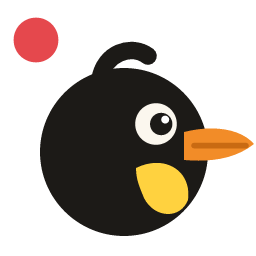
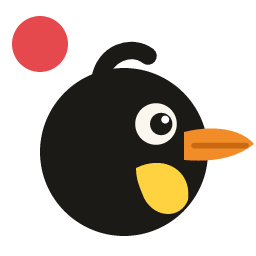
fix(brand): enlarge the listening dot and write the app, Pill and menu bar PNGs from render.sh

Changed region(s): [[0.0312, 0.0625, 0.2812, 0.2812]]

diff --git a/docs/brand/source/mascot.py b/docs/brand/source/mascot.py
@@ -222,7 +222,7 @@ def head(state, theme, size=64):
         parts.append(f'<path d="M48.5 36.4H61.5" stroke="{BEAK_SEAM}" stroke-width="1.4" stroke-linecap="round"/>')
     parts.append(f'<circle cx="39" cy="31" r="5.2" fill="{PAPER}"/><circle cx="40.3" cy="31" r="2.8" fill="{FEATHER}"/><circle cx="41.3" cy="29.9" r="1" fill="#FFFFFF"/>')
     if state == "listening":
-        parts.append(f'<circle cx="9" cy="10" r="5.6" fill="{LIVE}"/>')
+        parts.append(f'<circle cx="10" cy="11" r="7" fill="{LIVE}"/>')
     if state == "confused":
         parts.append(glyph("?", 26, 9.5, 13, BEAK))
     return "\n".join(parts)

diff --git a/docs/brand/README.md b/docs/brand/README.md
@@ -73,6 +73,6 @@ macOS template images are monochrome, so the system tints them for light and dar
 
 1. builds `source/render` (a small Rust tool on `resvg`, with its own `Cargo.lock`, outside the app workspace);
 2. runs `source/mascot.py`, which writes every SVG above (Thai letters and the wordmark are converted to paths with Mitr through `brand-render textpath`);
-3. renders the PNGs in `exports/`, builds `PimSiang.icns` with `iconutil`, and writes the PNGs the app embeds: `crates/app/assets/mascot/`, `crates/app/assets/menubar/` and `crates/platform-macos/assets/`.
+3. renders the PNGs in `exports/`, builds `PimSiang.icns` with `iconutil` (also copied to `packaging/macos/`, which `scripts/bundle.sh` puts in the bundle with `CFBundleIconFile`), and writes the PNGs the app embeds: `crates/app/assets/mascot/`, `crates/app/assets/menubar/` and `crates/platform-macos/assets/`.
 
 Fonts for the render are read from `crates/app/assets/` (`scripts/fetch-font.sh` downloads them). Change the art in `source/mascot.py` and rerun the script; do not edit the SVGs by hand.
